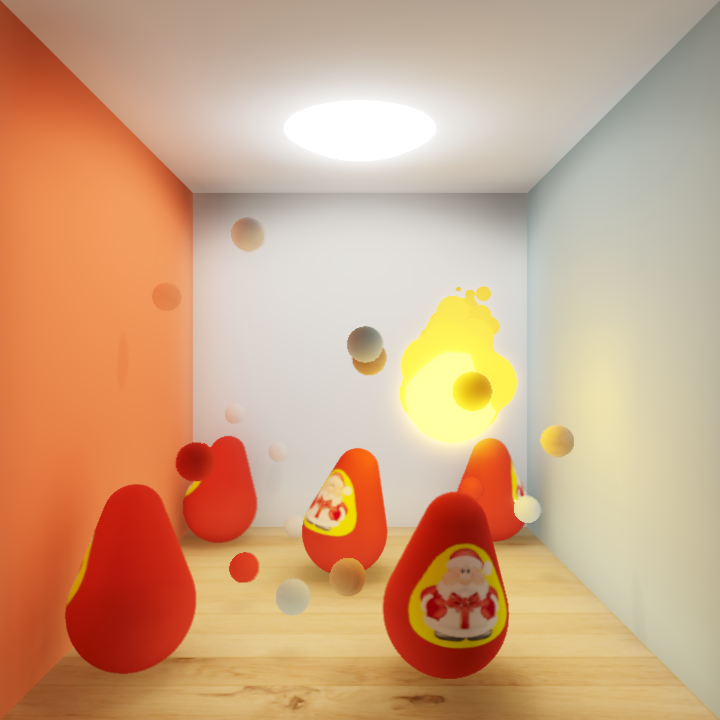
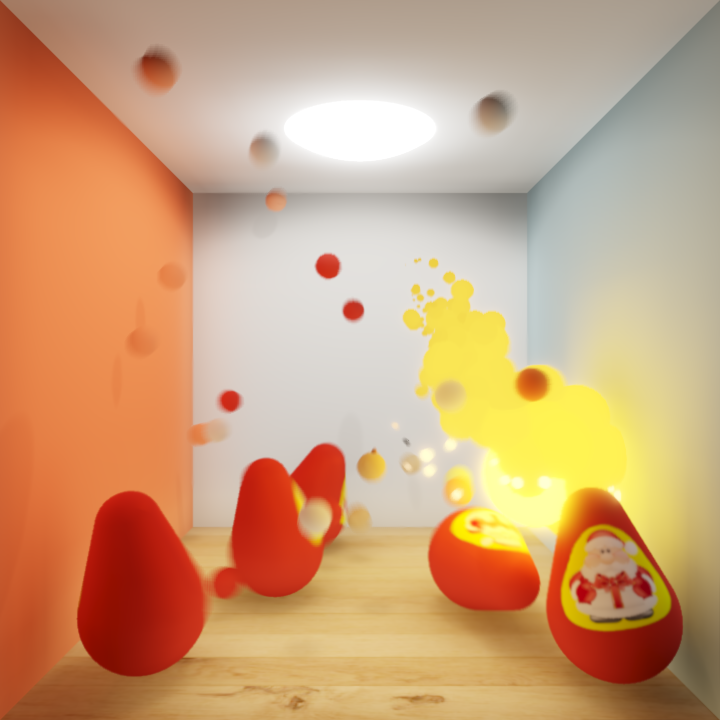
finalize? motion blur

diff --git a/src/Animation.cpp b/src/Animation.cpp
@@ -192,7 +192,7 @@ void Animation::Update(float delta_t, const std::optional<glm::vec2> &opt_drag_p
 	    [this, delta_t](const Fireball &fireball) { m_particle_system.SustainFire(fireball, delta_t); });
 }
 
-void Animation::Draw(float delta_t, int width, int height) {
+void Animation::Draw(int width, int height) {
 	glEnable(GL_DEPTH_TEST);
 	glEnable(GL_CULL_FACE);
 
@@ -263,8 +263,8 @@ void Animation::Draw(float delta_t, int width, int height) {
 	m_taa.Generate(width, height, jitter, []() { glDrawArrays(GL_TRIANGLES, 0, 3); });
 	// Motion Blur
 	if (m_motion_blur_flag)
-		m_motion_blur.GenerateBlur(width, height, delta_t, []() { glDrawArrays(GL_TRIANGLES, 0, 3); });
+		m_motion_blur.GenerateBlur(width, height, []() { glDrawArrays(GL_TRIANGLES, 0, 3); });
 
 	// Screen Pass
-	m_screen_pass.Generate(jitter, delta_t, m_motion_blur_flag, []() { glDrawArrays(GL_TRIANGLES, 0, 3); });
+	m_screen_pass.Generate(jitter, m_motion_blur_flag, []() { glDrawArrays(GL_TRIANGLES, 0, 3); });
 }

diff --git a/src/Animation.hpp b/src/Animation.hpp
@@ -54,7 +54,7 @@ private:
 	void drag(float delta_t, const std::optional<glm::vec2> &opt_drag_pos);
 
 	// control flags
-	bool m_marbles_flag = false, m_fire_ball_flag = false, m_motion_blur_flag = false;
+	bool m_marbles_flag = false, m_fire_ball_flag = false, m_motion_blur_flag = true;
 
 public:
 	void Initialize();
@@ -62,5 +62,5 @@ public:
 	void ToggleFireball();
 	inline void ToggleMotionBlur() { m_motion_blur_flag ^= 1; }
 	void Update(float delta_t, const std::optional<glm::vec2> &opt_drag_pos);
-	void Draw(float delta_t, int width, int height);
+	void Draw(int width, int height);
 };

diff --git a/src/ScreenPass.hpp b/src/ScreenPass.hpp
@@ -12,12 +12,11 @@ public:
 	void Initialize(const char *quad_vert_str);
 
 	template <typename QuadDrawFunc>
-	void Generate(const glm::vec2 &jitter, float delta_t, bool motion_blur, QuadDrawFunc &&quad_draw_func) {
+	void Generate(const glm::vec2 &jitter, bool motion_blur, QuadDrawFunc &&quad_draw_func) {
 		mygl3::FrameBuffer::Unbind();
 		m_shader.Use();
 		m_shader.SetVec2(0, glm::value_ptr(jitter));
-		m_shader.SetFloat(1, 1.0f / delta_t);
-		m_shader.SetInt(2, motion_blur);
+		m_shader.SetInt(1, motion_blur);
 		quad_draw_func();
 	}
 };

diff --git a/src/MotionBlur.hpp b/src/MotionBlur.hpp
@@ -33,12 +33,10 @@ public:
 		quad_draw_func(tw, th);
 	}
 
-	template <typename QuadDrawFunc>
-	void GenerateBlur(int width, int height, float delta_t, QuadDrawFunc &&quad_draw_func) {
+	template <typename QuadDrawFunc> void GenerateBlur(int width, int height, QuadDrawFunc &&quad_draw_func) {
 		initialize_target(width, height, m_tile_size);
 		m_blur_fbo.Bind();
 		m_blur_shader.Use();
-		m_blur_shader.SetFloat(0, 1.f / delta_t);
 		quad_draw_func();
 	}
 };

diff --git a/src/main.cpp b/src/main.cpp
@@ -48,7 +48,7 @@ int main() {
 		auto cur_time = (float)glfwGetTime();
 		float delta_t = std::min(cur_time - prev_time, .1f);
 		animation.Update(delta_t, drag);
-		animation.Draw(delta_t, kWidth, kHeight);
+		animation.Draw(kWidth, kHeight);
 		glfwSwapBuffers(window);
 
 		prev_time = cur_time;

diff --git a/report/report.md b/report/report.md
@@ -16,6 +16,7 @@
 
 ## 操作方法
 
+* **按键M：切换Motion Blur**
 * 按键S：切换弹珠
 * 按键F：切换火球
 * 不倒翁可以拖动：
@@ -506,7 +507,7 @@ $\text{Color}' = \text{Color} \times (1 - f) + \text{Bloom} \times f$，其中$f
 
 ### Motion Blur
 
-（既然为了TAA都把Velocity Buffer画出来了，那肯定得做Motion Blur）
+（既然为了TAA都把Velocity Buffer画出来了，那肯定得试下Motion Blur）
 
 ## 性能分析
 
